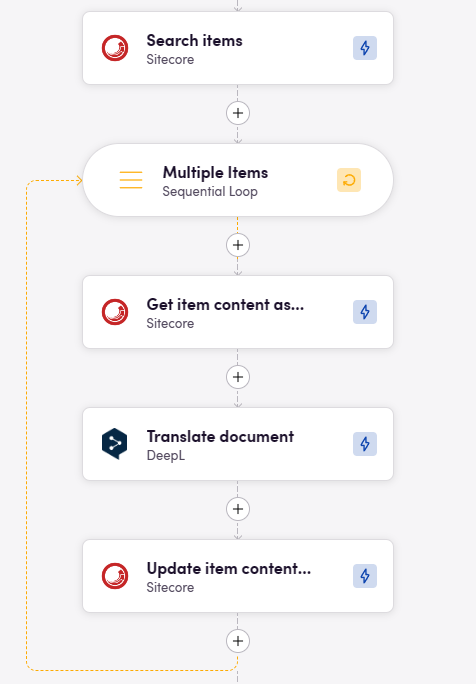
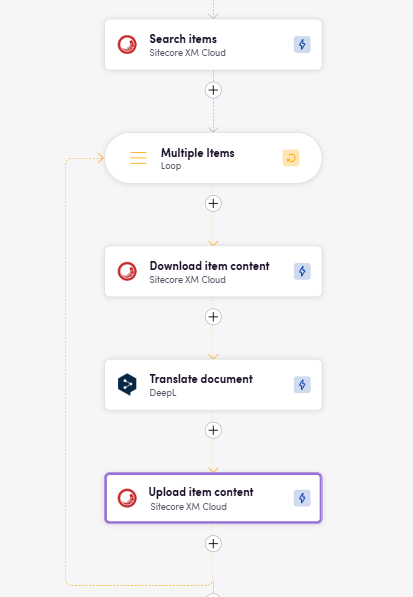
Updated README.md

diff --git a/README.md b/README.md
@@ -73,10 +73,10 @@ Your solution should look something like this now:
 
 - **Search items** finds items based on your search criteria, including last updated, created, language, path, etc.
 - **Get all configured languages** returns all the languages that are configured in this Sitecore instance.
-- **Get item content as HTML** get the content of an item represented as an HTML file so that it can be processed by NMT or TMS. You can specify which version/language should be retrieved.
-- **Update item content from HTML** updates the content of a specific version/language. Additionally, you can choose to always create a new version.
+- **Download item content** get the content of an item represented as an HTML or JSON file so that it can be processed by NMT or TMS. You can specify which version/language should be retrieved.
+- **Upload item content** updates the content of a specific version/language from the file exported using _Download content item_ action. Additionally, you can choose to always create a new version.
 - **Delete item content** deletes an item.
-- **Get Item ID from HTML** retrieves the item ID from the HTML content. When you receive translated HTML content we will add the Item ID to the header of HTML file, this action allows you to receive the Item ID from the HTML document.
+- **Get Item ID from file** retrieves the item ID from the HTML/JSON content. When you get the item content as a file, we will add the Item ID to the header of the file, this action allows you to receive the Item ID from the document.
 
 ## Events
 
